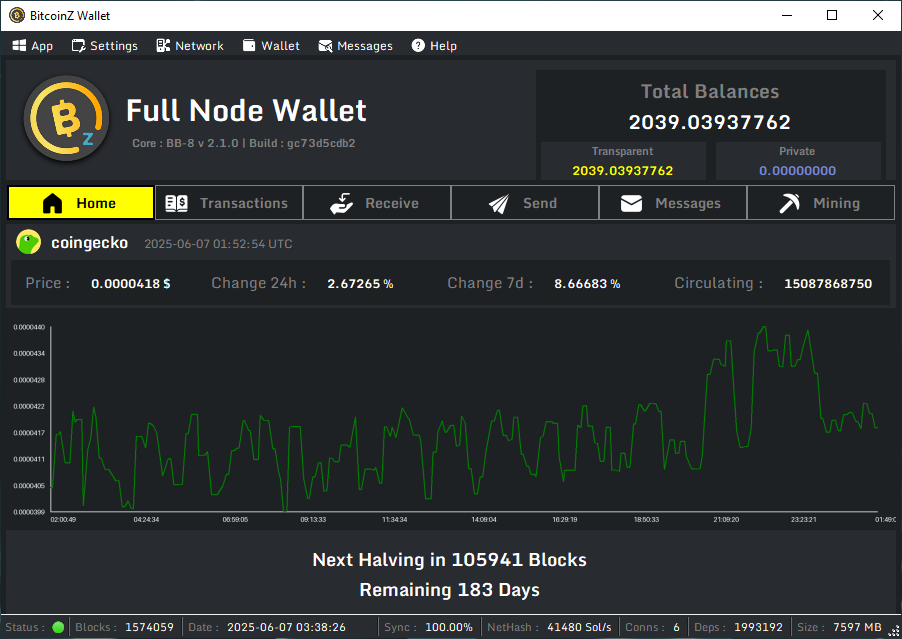
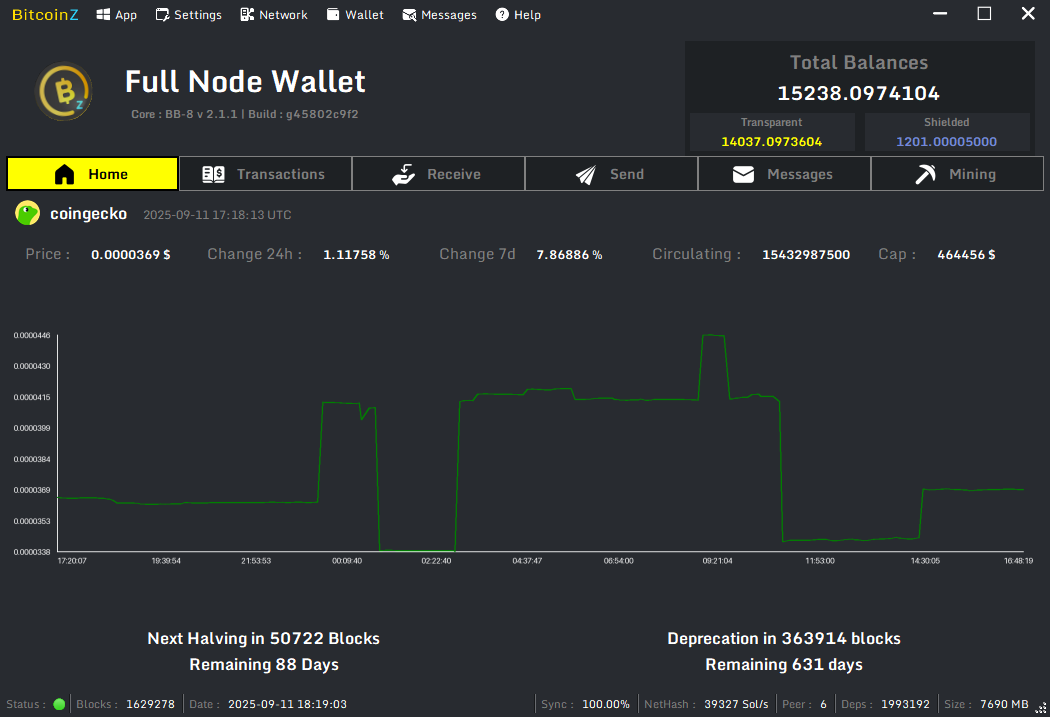
update screenshots

diff --git a/README.md b/README.md
@@ -43,6 +43,6 @@ By using this software, you support the decentralized mission of BitcoinZ and ta
 
 ## 🖼 Screenshots
 
-![BitcoinZ Wallet Home Screen](https://github.com/SpaceZ-Projects/BTCZWallet-win/blob/main/screenshots/home.gif?raw=true)
+![BitcoinZ Wallet Home Screen](https://github.com/SpaceZ-Projects/BTCZWallet-win/blob/main/screenshots/home.png?raw=true)
 
 ---
